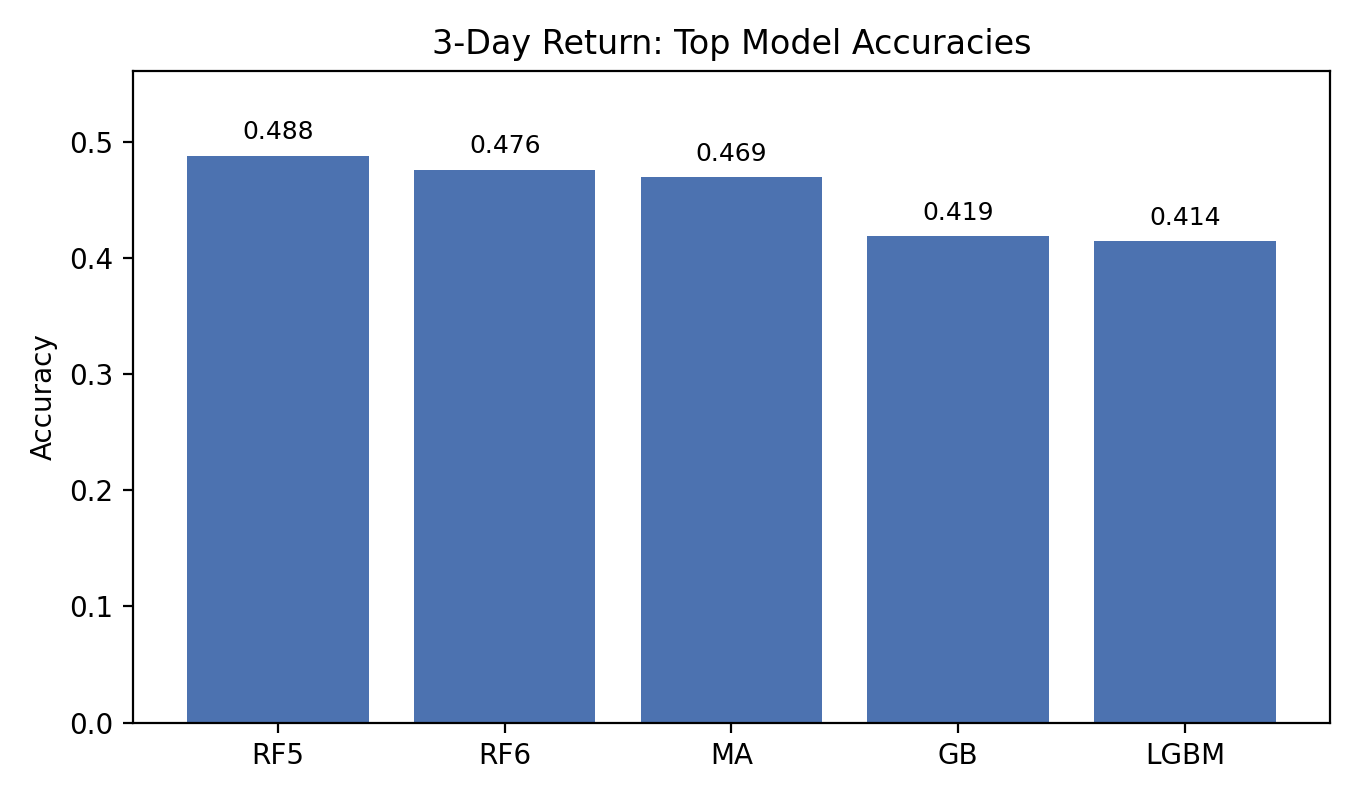
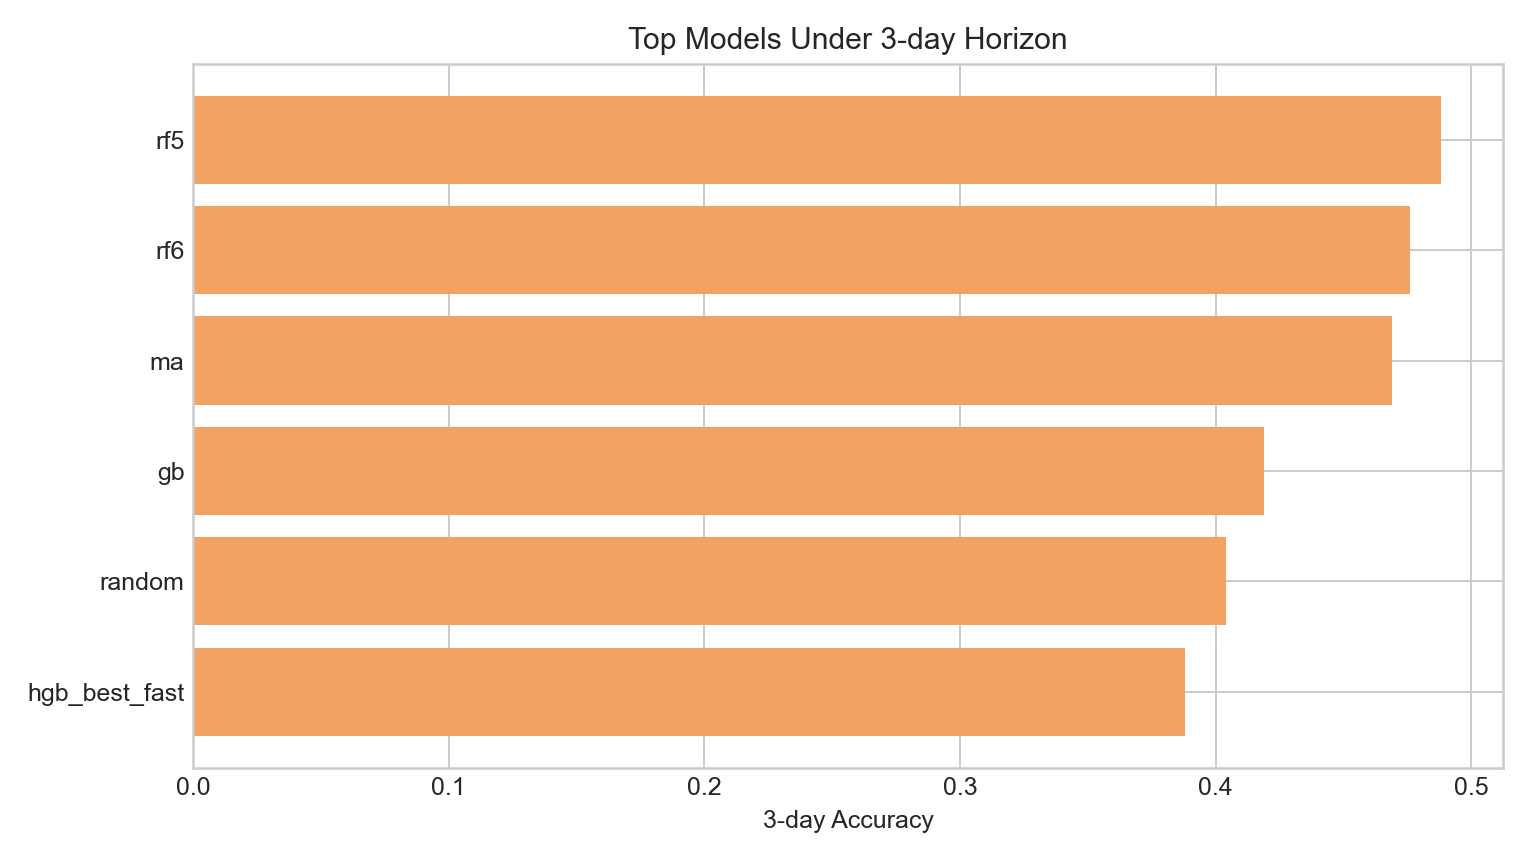
feat: update figure

diff --git a/src/experiments/generate_report_figures.py b/src/experiments/generate_report_figures.py
@@ -1,0 +1,141 @@
+from __future__ import annotations
+
+from pathlib import Path
+
+import matplotlib
+matplotlib.use("Agg")
+import matplotlib.pyplot as plt
+import pandas as pd
+
+
+PROJECT_ROOT = Path(__file__).resolve().parents[2]
+REPORTS_DIR = PROJECT_ROOT / "reports"
+FIGURES_DIR = REPORTS_DIR / "figures"
+QUANTILE_DIR = REPORTS_DIR / "quantile"
+THREED_DIR = REPORTS_DIR / "3-day-return"
+HMM_DIR = PROJECT_ROOT / "results" / "experiments" / "hmm_triple_barrier"
+
+
+def style():
+    plt.style.use("seaborn-v0_8-whitegrid")
+
+
+def save_fixed_vs_quantile():
+    acc_fixed = pd.read_csv(REPORTS_DIR / "evaluation_accuracy.csv")
+    acc_quant = pd.read_csv(QUANTILE_DIR / "evaluation_accuracy.csv")
+    fixed_map = dict(zip(acc_fixed["method"], acc_fixed["accuracy"]))
+    quant_map = dict(zip(acc_quant["method"], acc_quant["accuracy"]))
+
+    methods = [
+        "ridge",
+        "logreg_ovr",
+        "ensemble_lr_svm",
+        "svm_linear",
+        "rf_best_fast",
+        "rf_best_slow",
+        "lgbm",
+    ]
+    labels = [
+        "Ridge",
+        "LogReg OVR",
+        "Ensemble",
+        "Linear SVM",
+        "RF Fast",
+        "RF Slow",
+        "LightGBM",
+    ]
+    df = pd.DataFrame(
+        {
+            "Model": labels,
+            "Fixed": [fixed_map[m] for m in methods],
+            "Quantile": [quant_map[m] for m in methods],
+        }
+    )
+
+    fig, ax = plt.subplots(figsize=(10, 5.5))
+    x = range(len(df))
+    width = 0.38
+    ax.bar([i - width / 2 for i in x], df["Fixed"], width=width, label="Fixed epsilon", color="#355C7D")
+    ax.bar([i + width / 2 for i in x], df["Quantile"], width=width, label="Quantile", color="#C06C84")
+    ax.set_xticks(list(x))
+    ax.set_xticklabels(df["Model"], rotation=20, ha="right")
+    ax.set_ylabel("Accuracy")
+    ax.set_title("Selected Models: Fixed Threshold vs Quantile Labeling")
+    ax.legend(frameon=False)
+    fig.tight_layout()
+    fig.savefig(FIGURES_DIR / "comparison_fixed_vs_quantile_selected_models.png", dpi=180)
+    plt.close(fig)
+
+
+def save_horizon_accuracy():
+    df = pd.read_csv(THREED_DIR / "comparison_score_1day_vs_3day.csv")
+    df = df.sort_values("acc_1day", ascending=False).reset_index(drop=True)
+
+    fig, ax = plt.subplots(figsize=(10.5, 5.5))
+    x = range(len(df))
+    width = 0.38
+    ax.bar([i - width / 2 for i in x], df["acc_1day"], width=width, label="1-day", color="#2A9D8F")
+    ax.bar([i + width / 2 for i in x], df["acc_3day"], width=width, label="3-day", color="#E76F51")
+    ax.set_xticks(list(x))
+    ax.set_xticklabels(df["method"], rotation=30, ha="right")
+    ax.set_ylabel("Accuracy")
+    ax.set_title("Prediction Horizon Comparison")
+    ax.legend(frameon=False)
+    fig.tight_layout()
+    fig.savefig(FIGURES_DIR / "nextday_vs_3day_accuracy.png", dpi=180)
+    plt.close(fig)
+
+
+def save_3day_top_accuracy():
+    df = pd.read_csv(THREED_DIR / "comparison_score_1day_vs_3day.csv")
+    top = df.sort_values("acc_3day", ascending=False).head(6).sort_values("acc_3day", ascending=True)
+
+    fig, ax = plt.subplots(figsize=(8.5, 4.8))
+    ax.barh(top["method"], top["acc_3day"], color="#F4A261")
+    ax.set_xlabel("3-day Accuracy")
+    ax.set_title("Top Models Under 3-day Horizon")
+    fig.tight_layout()
+    fig.savefig(FIGURES_DIR / "3day_top_accuracy.png", dpi=180)
+    plt.close(fig)
+
+
+def save_hmm_experiment():
+    df = pd.read_csv(HMM_DIR / "summary.csv")
+    keep = ["ridge_base", "ridge_plus_regime_conf", "base", "base_plus_regime"]
+    labels = {
+        "ridge_base": "Ridge",
+        "ridge_plus_regime_conf": "Ridge + Regime + Conf",
+        "base": "LightGBM",
+        "base_plus_regime": "LightGBM + Regime",
+    }
+    plot_df = df[df["variant"].isin(keep)].copy()
+    plot_df["label"] = plot_df["variant"].map(labels)
+    order = ["ridge_base", "ridge_plus_regime_conf", "base", "base_plus_regime"]
+    plot_df["order"] = plot_df["variant"].map({name: i for i, name in enumerate(order)})
+    plot_df = plot_df.sort_values("order")
+
+    fig, ax = plt.subplots(figsize=(9.2, 5.2))
+    colors = ["#6C757D", "#8D99AE", "#2A9D8F", "#264653"]
+    ax.bar(plot_df["label"], plot_df["score_mean"], color=colors)
+    ax.set_ylabel("Mean Composite Score")
+    ax.set_title("HMM Regime + Triple Barrier Experiment")
+    ax.set_ylim(0.28, 0.40)
+    for idx, value in enumerate(plot_df["score_mean"]):
+        ax.text(idx, value + 0.002, f"{value:.3f}", ha="center", va="bottom", fontsize=9)
+    plt.xticks(rotation=15, ha="right")
+    fig.tight_layout()
+    fig.savefig(FIGURES_DIR / "hmm_triple_barrier_comparison.png", dpi=180)
+    plt.close(fig)
+
+
+def main():
+    FIGURES_DIR.mkdir(parents=True, exist_ok=True)
+    style()
+    save_fixed_vs_quantile()
+    save_horizon_accuracy()
+    save_3day_top_accuracy()
+    save_hmm_experiment()
+
+
+if __name__ == "__main__":
+    main()
